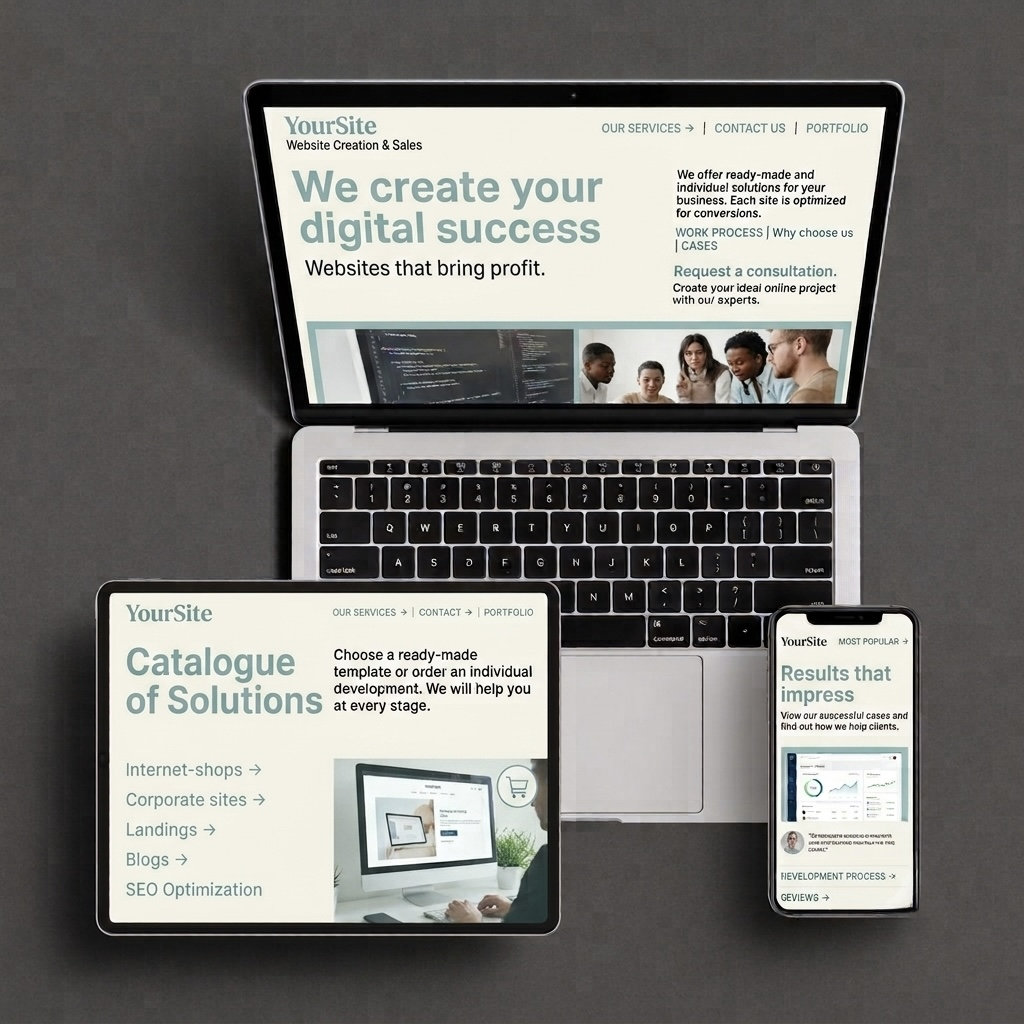
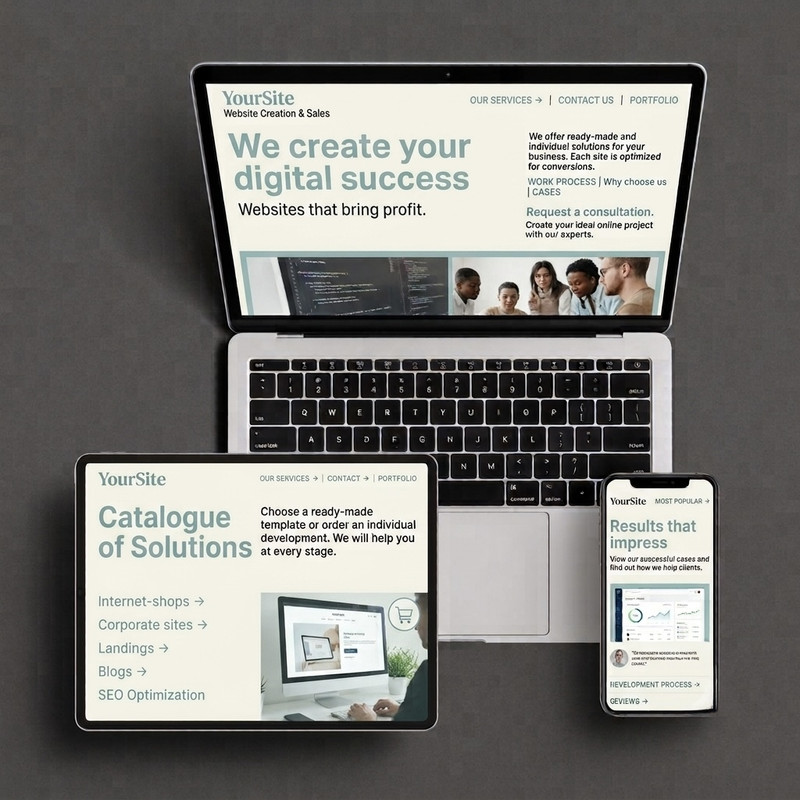
Serve hero image from the repo instead of Postimages.
Host the photo in public/images and render it with a plain img tag so GitHub Pages loads it reliably under /YourSite.

Changed region(s): [[0.3438, 0.625, 0.5, 0.6875], [0.6562, 0.1562, 0.7812, 0.2188], [0.3438, 0.25, 0.375, 0.2812]]

diff --git a/src/components/landing/Hero.tsx b/src/components/landing/Hero.tsx
@@ -1,6 +1,5 @@
 "use client";
 
-import Image from "next/image";
 import { motion } from "framer-motion";
 import { ArrowRight } from "lucide-react";
 import { useLanguage } from "@/i18n/LanguageProvider";
@@ -78,14 +77,16 @@ export default function Hero() {
           transition={{ duration: 0.65, delay: 0.18, ease }}
           className="relative lg:col-span-5"
         >
-          <div className="relative aspect-[4/5] overflow-hidden rounded-3xl shadow-sm">
-            <Image
+          <div className="relative aspect-[4/5] overflow-hidden rounded-3xl bg-accent-soft shadow-sm">
+            {/* Native img: more reliable than next/image for GitHub Pages static export */}
+            <img
               src={images.hero}
               alt={t.hero.imageCaption}
-              fill
-              priority
-              sizes="(max-width: 1024px) 100vw, 420px"
-              className="object-cover"
+              width={1024}
+              height={1280}
+              decoding="async"
+              fetchPriority="high"
+              className="absolute inset-0 h-full w-full object-cover"
             />
             <div className="absolute inset-0 bg-gradient-to-t from-charcoal/50 via-transparent to-transparent" />
             <div className="absolute inset-x-6 bottom-6">

diff --git a/src/lib/images.ts b/src/lib/images.ts
@@ -6,8 +6,8 @@ export function localAsset(path: string) {
 }
 
 export const images = {
-  // Use Direct link from Postimages (i.postimg.cc/...), not the page URL (postimg.cc/...)
-  hero: "https://i.postimg.cc/ZTvV6k2y/IMG-7697.jpg",
+  // Hosted in public/images — works on GitHub Pages with basePath prefix
+  hero: localAsset("/images/hero.jpg"),
   about:
     "https://images.unsplash.com/photo-1497215728101-856f4ea42174?auto=format&fit=crop&w=1200&q=80",
   services: [
